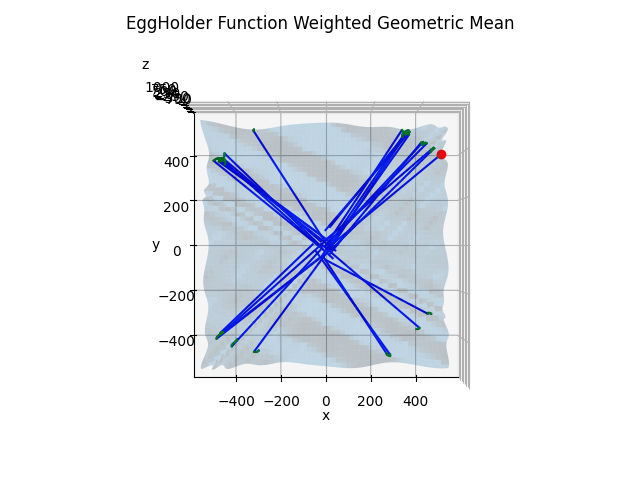
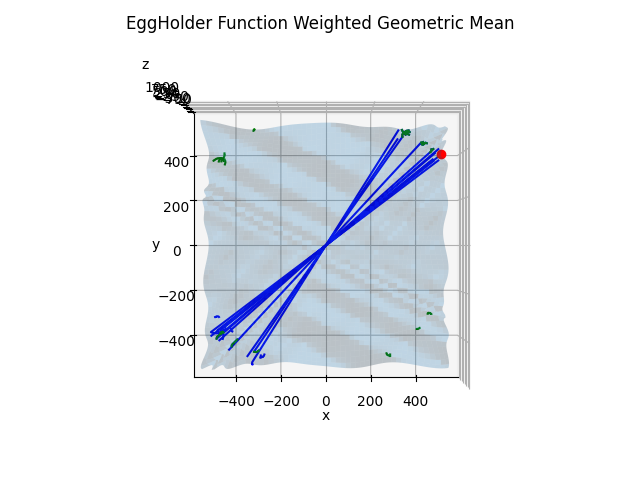
weighted geometric mean fix and result update

diff --git a/midpoint.py b/midpoint.py
@@ -23,7 +23,7 @@ def midpoint_weighted_geometric_mean(population, scores):
     if np.sum(np.sign(population)) <= 0:
         geometric_mean = -geometric_mean
 
-    return midpoint_mean(population, scores)
+    return geometric_mean
 
 
 def midpoint_trimmed_mean(population, _):
